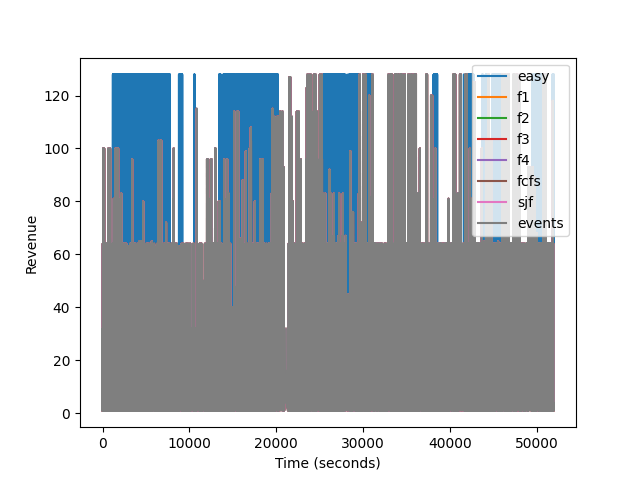
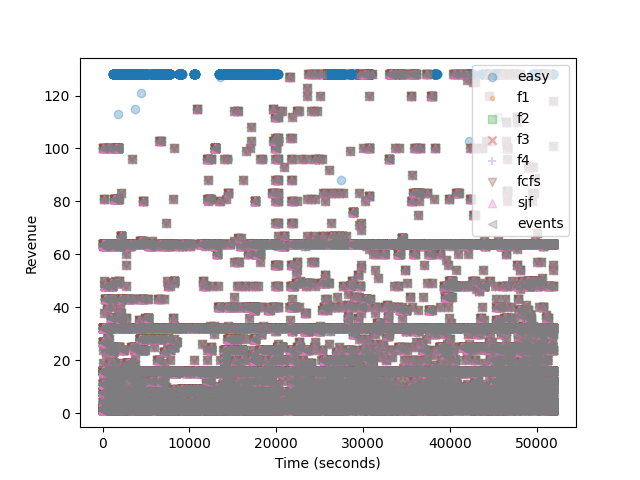
graphs

diff --git a/Graphs.py b/Graphs.py
@@ -39,9 +39,12 @@ def generate_graphs(in_file):
         print('Slowdown done...')
 
     #revenue
-    plt.ylabel("Revenue") 
+    markers = ['o', '.', ',', 'x', '+', 'v', '^', '<', '>', 's', 'd']
+    plt.ylabel("Revenue")
+    i = 0
     for t in tuple_revenue:
-        plt.plot(t[1], t[2], label=t[0])
+        plt.scatter(t[1], t[2], marker=markers[i], label=t[0], alpha=0.3,)
+        i+=1
     name = path_scheduler + 'revenue.png'
     plt.xlabel("Time (seconds)")
     plt.legend(loc='best')
